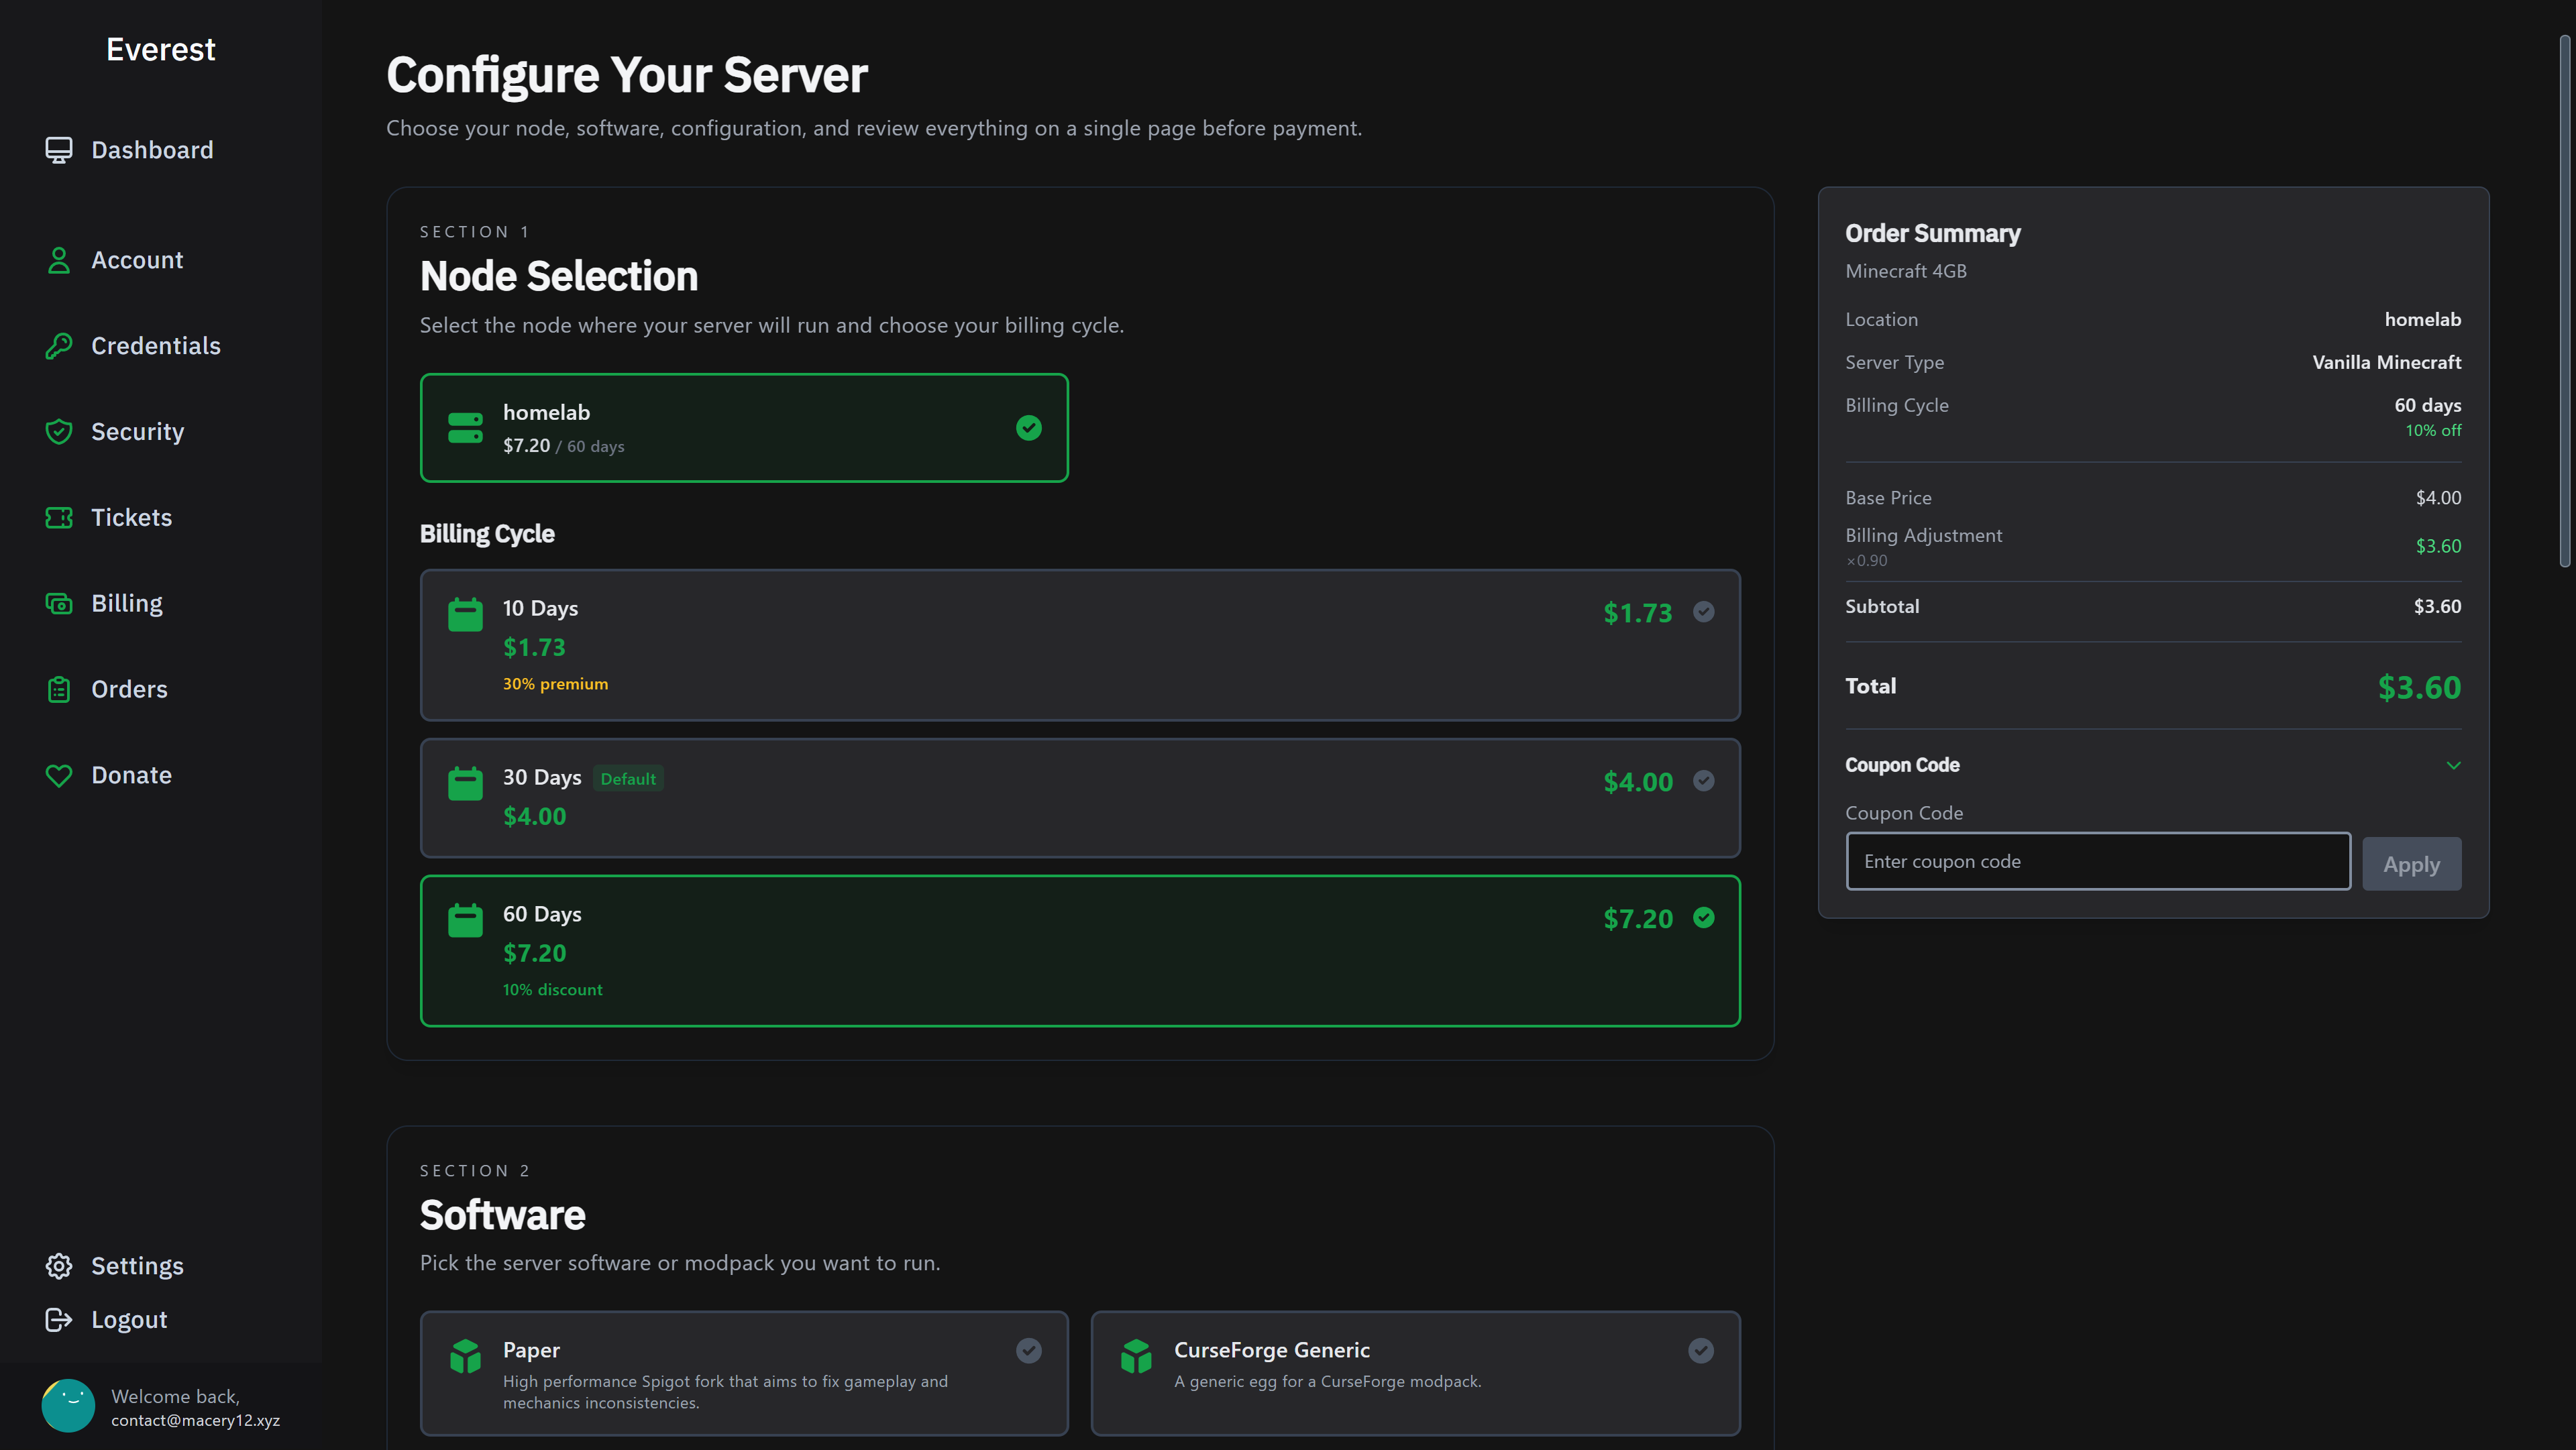
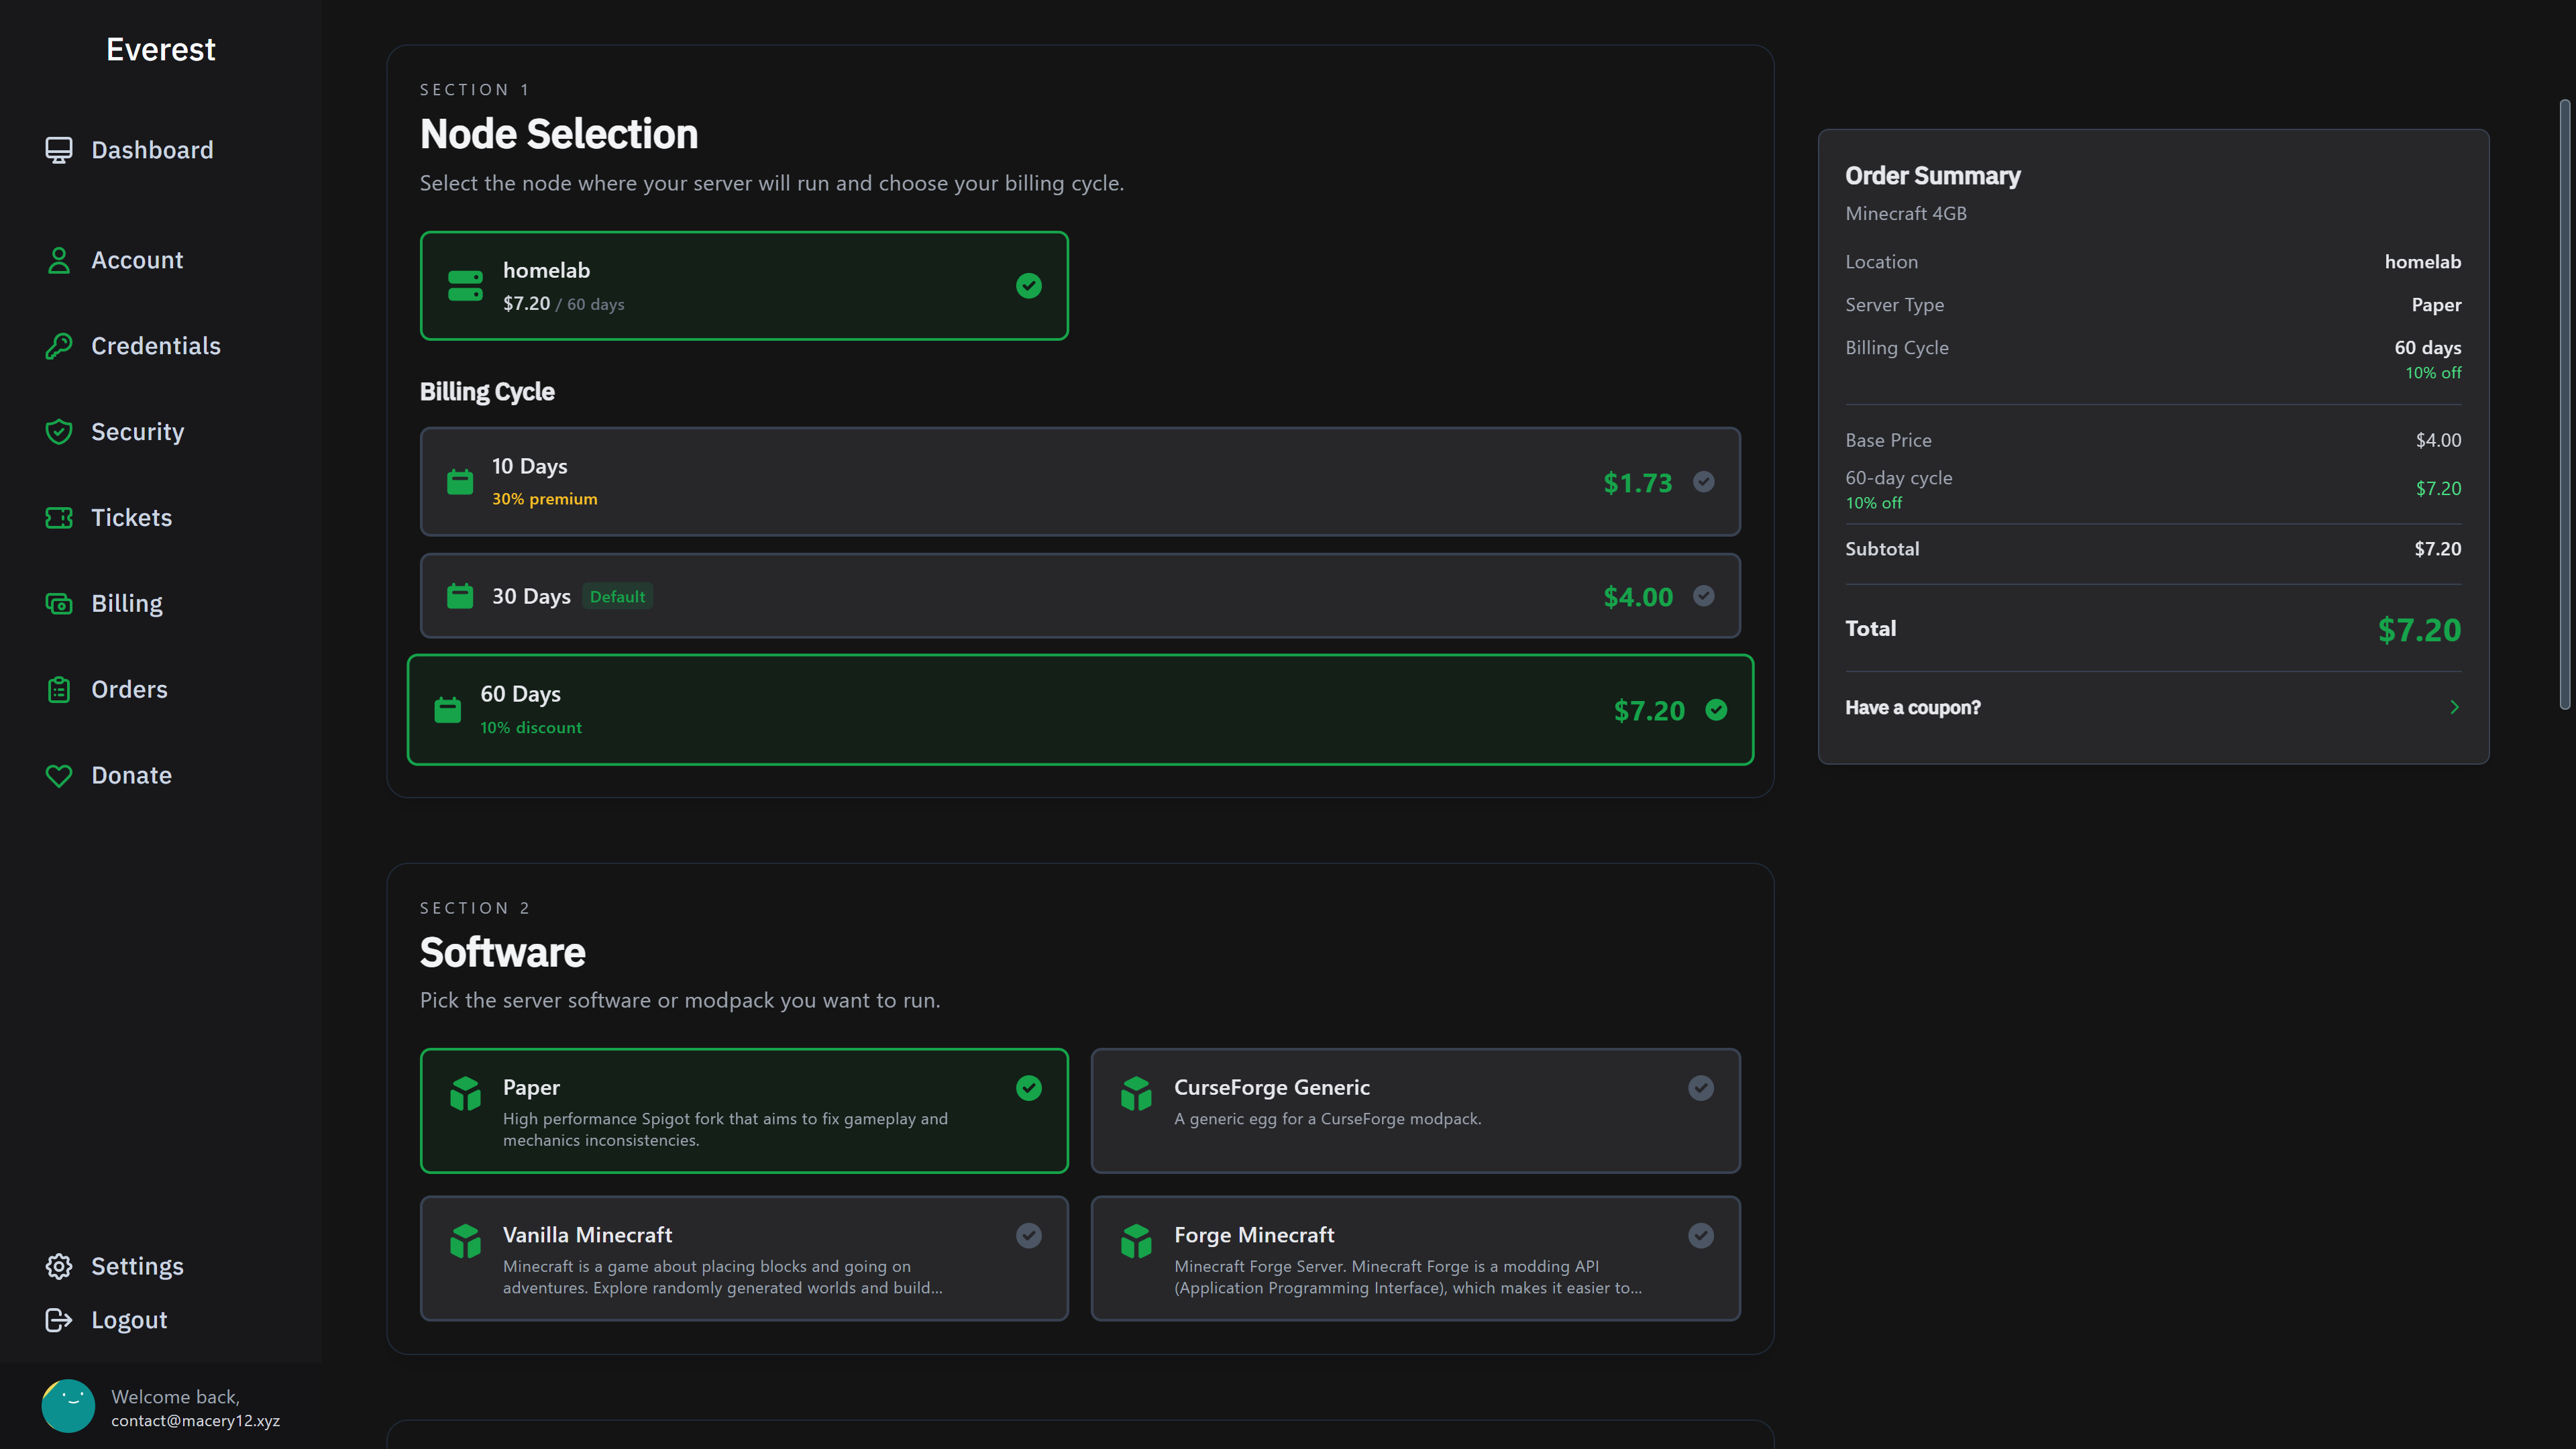
fix grammar and typos

diff --git a/src/pages/HomePage.jsx b/src/pages/HomePage.jsx
@@ -55,7 +55,7 @@ export default function HomePage() {
             </h1>
             <p className="hero-sub">
               M12Labs gives self-hosters a clean way to deploy, manage, and grow your servers with
-              automated setup, a custom extension ecosystem, and a built-in mod and plugin integrations.
+              automated setup, a custom extension ecosystem, and built-in mod and plugin integrations.
             </p>
             <div className="hero-actions">
               <a href="/platform" className="btn btn-primary btn-lg">Explore Platform</a>
@@ -85,7 +85,7 @@ export default function HomePage() {
             <ul className="feature-bullets">
               <li>Signed package registry with archive checksums and versioned release metadata.</li>
               <li>One-command publish flow builds, hashes, and indexes new extension releases.</li>
-              <li>Install from admin UI, repository id, or local package file through Artisan.</li>
+              <li>Install from admin UI, repository ID, or local package file through Artisan.</li>
             </ul>
           </div>
           <div className="feature-row-visual">
@@ -119,16 +119,16 @@ export default function HomePage() {
         <div className="container feature-row-inner">
           <div className="feature-row-text">
             <span className="version-tag">Payment Stack</span>
-            <h2 id="feature-payments-heading" className="feature-row-heading">Multi-provider billing without custom glue code.</h2>
+            <h2 id="feature-payments-heading" className="feature-row-heading">Stripe, Mollie, and PayPal — all supported out of the box.</h2>
             <ul className="feature-bullets">
-              <li>Stripe, Mollie, and PayPal options available with modern integrations management.</li>
-              <li>Order wizard, billing cycles, and revenue views are designed for subscription hosting.</li>
-              <li>Supports cycle multipliers and renewal controls to tune margins and risk.</li>
+              <li>Connect your preferred payment provider from the admin settings with no extra setup.</li>
+              <li>Built-in order flow, billing cycle management, and revenue tracking designed for hosting.</li>
+              <li>Cycle multipliers and renewal controls let you adjust pricing and terms at any time.</li>
             </ul>
           </div>
           <div className="feature-row-visual">
             <div className="screenshot-frame">
-              <img src="/img/screenshots/server_configuration_checkout.png" alt="M12Labs server configuration checkout with node and billing cycle selection" loading="lazy" />
+              <img src="/img/screenshots/payment_integrations.png" alt="M12Labs payment provider integration settings" loading="lazy" />
             </div>
           </div>
         </div>

diff --git a/src/pages/FeaturesPage.jsx b/src/pages/FeaturesPage.jsx
@@ -69,12 +69,12 @@ export default function FeaturesPage() {
           <div className="features-category-visual"><div className="screenshot-frame"><img src="/img/screenshots/mods_plugins_browser.png" alt="M12Labs mods and plugins browser with searchable plugin listings" loading="lazy" /></div></div>
           <div className="features-category-text">
             <span className="category-label">Mod &amp; Plugin Integrations</span>
-            <h2 id="cat-integrations" className="section-heading">Built-in support for high-traffic ecosystem sources.</h2>
-            <p className="section-body">Integration modules include Modrinth and CurseForge support for mods and modpacks, plus Spigot support for plugin workflows, with built-in visibility for API usage and service health.</p>
+            <h2 id="cat-integrations" className="section-heading">Mods and plugins from the top sources, ready to install.</h2>
+            <p className="section-body">Pull mods and modpacks from Modrinth and CurseForge, or browse plugins via Spigot — directly inside the panel with no manual downloads needed.</p>
             <ul className="features-list">
-              <li><span className="features-list-icon" aria-hidden="true">✦</span><div><strong>Mod and plugin source coverage</strong><p>Use Modrinth and CurseForge for mods and modpacks, and Spigot sources for plugin discovery workflows.</p></div></li>
-              <li><span className="features-list-icon" aria-hidden="true">✦</span><div><strong>Per-server integration control</strong><p>Choose exactly which servers can use specific integrations based on your own setup and needs.</p></div></li>
-              <li><span className="features-list-icon" aria-hidden="true">✦</span><div><strong>Rate limit and API monitoring</strong><p>Monitor rate limits, request activity, and integration status across providers.</p></div></li>
+              <li><span className="features-list-icon" aria-hidden="true">✦</span><div><strong>Modrinth, CurseForge, and Spigot</strong><p>Search and install content from the most popular mod and plugin sources, with results surfaced directly in the panel.</p></div></li>
+              <li><span className="features-list-icon" aria-hidden="true">✦</span><div><strong>Granular integration control</strong><p>Restrict access down to the nest or egg level — so you control exactly which server types can use each integration source.</p></div></li>
+              <li><span className="features-list-icon" aria-hidden="true">✦</span><div><strong>API usage and rate monitoring</strong><p>Track request activity and rate limit status across providers to keep integrations running smoothly.</p></div></li>
             </ul>
           </div>
         </div>

diff --git a/src/data/site.js b/src/data/site.js
@@ -27,6 +27,12 @@ const screenshotMeta = {
     summary: "Select a node, billing cycle, and software  — then review your order before checkout.",
     highlight: "Node, cycle, and software selection in one flow"
   },
+  payment_integrations: {
+    category: "Payments & Checkout",
+    title: "Payment Integrations",
+    summary: "Connect and manage Stripe, Mollie, and PayPal from one payment settings screen.",
+    highlight: "Multi-provider billing integrations"
+  },
   billing_dashboard: {
     title: "Billing Dashboard",
     summary: "A high-level look at billing health, renewals, and revenue activity in one dashboard.",
@@ -59,6 +65,7 @@ const screenshotMeta = {
 
 const screenshotFiles = [
   "server_configuration_checkout.png",
+  "payment_integrations.png",
   "billing_dashboard.png",
   "extensions_catalog.png",
   "billing_cycle_rules.png",